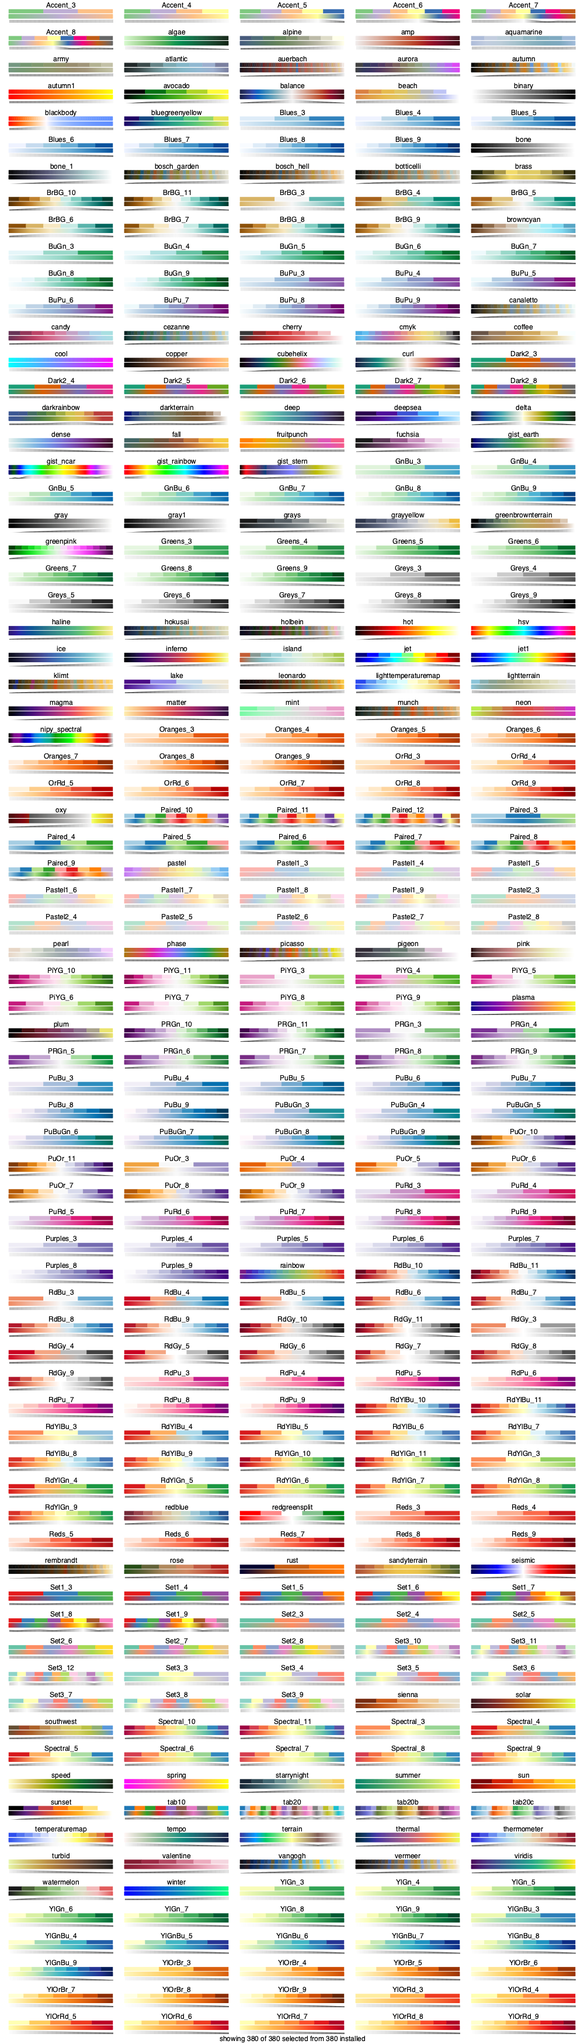
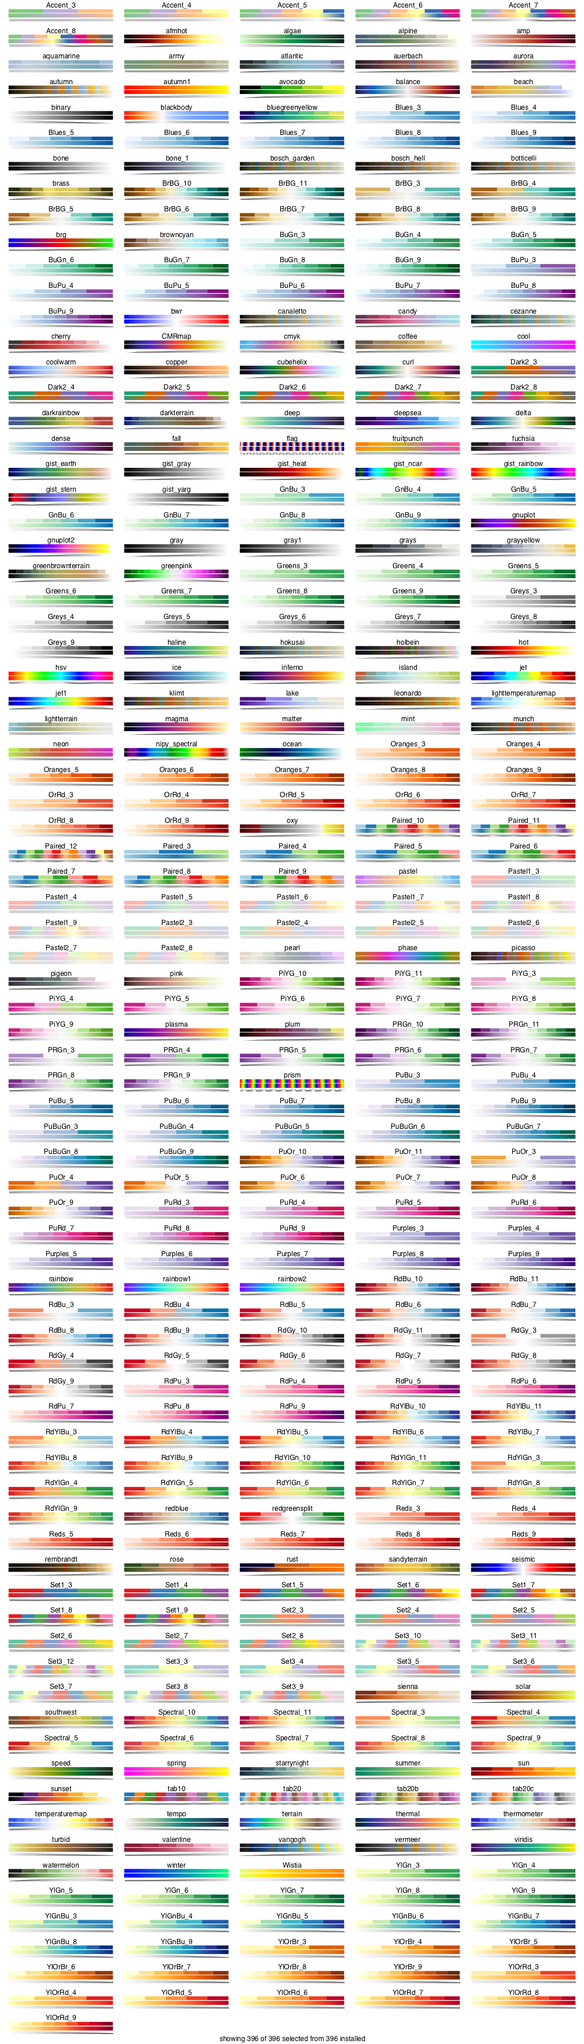
build based on 341dea6

diff --git a/dev/basics/index.html b/dev/basics/index.html
@@ -1,5 +1,5 @@
 <!DOCTYPE html>
-<html lang="en"><head><meta charset="UTF-8"/><meta name="viewport" content="width=device-width, initial-scale=1.0"/><title>Basic usage · ColorSchemes</title><link href="https://cdnjs.cloudflare.com/ajax/libs/normalize/4.2.0/normalize.min.css" rel="stylesheet" type="text/css"/><link href="https://fonts.googleapis.com/css?family=Lato|Roboto+Mono" rel="stylesheet" type="text/css"/><link href="https://cdnjs.cloudflare.com/ajax/libs/font-awesome/4.6.3/css/font-awesome.min.css" rel="stylesheet" type="text/css"/><link href="https://cdnjs.cloudflare.com/ajax/libs/highlight.js/9.12.0/styles/default.min.css" rel="stylesheet" type="text/css"/><script>documenterBaseURL=".."</script><script src="https://cdnjs.cloudflare.com/ajax/libs/require.js/2.2.0/require.min.js" data-main="../assets/documenter.js"></script><script src="../siteinfo.js"></script><script src="../../versions.js"></script><link href="../assets/documenter.css" rel="stylesheet" type="text/css"/></head><body><nav class="toc"><a href="../index.html"><img class="logo" src="../assets/logo.png" alt="ColorSchemes logo"/></a><h1>ColorSchemes</h1><select id="version-selector" onChange="window.location.href=this.value" style="visibility: hidden"></select><form class="search" id="search-form" action="../search/"><input id="search-query" name="q" type="text" placeholder="Search docs"/></form><ul><li><a class="toctext" href="../">Introduction</a></li><li class="current"><a class="toctext" href>Basic usage</a><ul class="internal"><li><a class="toctext" href="#ColorScheme-objects-1">ColorScheme objects</a></li><li><a class="toctext" href="#The-colorschemes-dictionary-1">The colorschemes dictionary</a></li><li><a class="toctext" href="#Chart-of-all-schemes-1">Chart of all schemes</a></li><li><a class="toctext" href="#Finding-colorschemes-1">Finding colorschemes</a></li><li><a class="toctext" href="#Make-your-own-1">Make your own</a></li><li><a class="toctext" href="#Continuous-color-sampling-1">Continuous color sampling</a></li><li><a class="toctext" href="#Matplotlib-compatibility-1">Matplotlib compatibility</a></li></ul></li><li><a class="toctext" href="../finding/">Finding colors</a></li><li><a class="toctext" href="../plotting/">Plotting</a></li><li><a class="toctext" href="../images/">Images</a></li><li><a class="toctext" href="../functionindex/">Index</a></li></ul></nav><article id="docs"><header><nav><ul><li><a href>Basic usage</a></li></ul><a class="edit-page" href="https://github.com/JuliaGraphics/ColorSchemes.jl/blob/master/docs/src/basics.md"><span class="fa"></span> Edit on GitHub</a></nav><hr/><div id="topbar"><span>Basic usage</span><a class="fa fa-bars" href="#"></a></div></header><h1><a class="nav-anchor" id="Basics-1" href="#Basics-1">Basics</a></h1><h2><a class="nav-anchor" id="ColorScheme-objects-1" href="#ColorScheme-objects-1">ColorScheme objects</a></h2><p>When you start using ColorSchemes.jl, it loads a set of pre-defined ColorSchemes, and stores them in a dictionary, exported and called <code>colorschemes</code>.</p><p>A ColorScheme is a Julia object which contains:</p><ul><li>an array of colors</li><li>a string defining a category</li><li>a string that can contain descriptive notes</li></ul><p>To access one of these built-in colorschemes, use its symbol:</p><pre><code class="language-none">julia&gt; ColorSchemes.leonardo</code></pre><p>If you&#39;re using Juno, the colors in the colorscheme should appear in the Plot window.</p><p><img src="../assets/figures/leo-colorscheme.png" alt="&quot;leo color scheme&quot;"/></p><p>Otherwise, you&#39;ll see the colors listed as RGB values:</p><pre><code class="language-none">32-element Array{RGB{Float64},1}:
+<html lang="en"><head><meta charset="UTF-8"/><meta name="viewport" content="width=device-width, initial-scale=1.0"/><title>Basic usage · ColorSchemes</title><link href="https://cdnjs.cloudflare.com/ajax/libs/normalize/4.2.0/normalize.min.css" rel="stylesheet" type="text/css"/><link href="https://fonts.googleapis.com/css?family=Lato|Roboto+Mono" rel="stylesheet" type="text/css"/><link href="https://cdnjs.cloudflare.com/ajax/libs/font-awesome/4.6.3/css/font-awesome.min.css" rel="stylesheet" type="text/css"/><link href="https://cdnjs.cloudflare.com/ajax/libs/highlight.js/9.12.0/styles/default.min.css" rel="stylesheet" type="text/css"/><script>documenterBaseURL=".."</script><script src="https://cdnjs.cloudflare.com/ajax/libs/require.js/2.2.0/require.min.js" data-main="../assets/documenter.js"></script><script src="../siteinfo.js"></script><script src="../../versions.js"></script><link href="../assets/documenter.css" rel="stylesheet" type="text/css"/></head><body><nav class="toc"><a href="../index.html"><img class="logo" src="../assets/logo.png" alt="ColorSchemes logo"/></a><h1>ColorSchemes</h1><select id="version-selector" onChange="window.location.href=this.value" style="visibility: hidden"></select><form class="search" id="search-form" action="../search/"><input id="search-query" name="q" type="text" placeholder="Search docs"/></form><ul><li><a class="toctext" href="../">Introduction</a></li><li class="current"><a class="toctext" href>Basic usage</a><ul class="internal"><li><a class="toctext" href="#ColorScheme-objects-1">ColorScheme objects</a></li><li><a class="toctext" href="#The-colorschemes-dictionary-1">The colorschemes dictionary</a></li><li><a class="toctext" href="#Chart-of-all-schemes-1">Chart of all schemes</a></li><li><a class="toctext" href="#Finding-colorschemes-1">Finding colorschemes</a></li><li><a class="toctext" href="#Make-your-own-ColorScheme-1">Make your own ColorScheme</a></li><li><a class="toctext" href="#Continuous-color-sampling-1">Continuous color sampling</a></li><li><a class="toctext" href="#Matplotlib-compatibility-1">Matplotlib compatibility</a></li></ul></li><li><a class="toctext" href="../finding/">Finding colors</a></li><li><a class="toctext" href="../plotting/">Plotting</a></li><li><a class="toctext" href="../images/">Images</a></li><li><a class="toctext" href="../functionindex/">Index</a></li></ul></nav><article id="docs"><header><nav><ul><li><a href>Basic usage</a></li></ul><a class="edit-page" href="https://github.com/JuliaGraphics/ColorSchemes.jl/blob/master/docs/src/basics.md"><span class="fa"></span> Edit on GitHub</a></nav><hr/><div id="topbar"><span>Basic usage</span><a class="fa fa-bars" href="#"></a></div></header><h1><a class="nav-anchor" id="Basics-1" href="#Basics-1">Basics</a></h1><h2><a class="nav-anchor" id="ColorScheme-objects-1" href="#ColorScheme-objects-1">ColorScheme objects</a></h2><p>When you start using ColorSchemes.jl, it loads a set of pre-defined ColorSchemes, and stores them in a dictionary, exported and called <code>colorschemes</code>.</p><p>A ColorScheme is a Julia object which contains:</p><ul><li>an array of colors</li><li>a string defining a category</li><li>a string that can contain descriptive notes</li></ul><p>To access one of these built-in colorschemes, use its symbol:</p><pre><code class="language-none">julia&gt; ColorSchemes.leonardo</code></pre><p>If you&#39;re using Juno, for example, the colors in the colorscheme should appear in the Plots window.</p><p><img src="../assets/figures/leo-colorscheme.png" alt="&quot;leo color scheme&quot;"/></p><p>Otherwise, you&#39;ll see the colors listed as RGB values:</p><pre><code class="language-none">32-element Array{RGB{Float64},1}:
  RGB{Float64}(0.0548203,0.016509,0.0193152)
  RGB{Float64}(0.0750816,0.0341102,0.0397083)
  RGB{Float64}(0.10885,0.0336675,0.0261204)
@@ -12,7 +12,7 @@
  RGB{Float64}(0.757552,0.633425,0.251451)
  RGB{Float64}(0.816472,0.697015,0.322421)
  RGB{Float64}(0.933027,0.665164,0.198652)
- RGB{Float64}(0.972441,0.790701,0.285136)</code></pre><p>You can access the colors as:</p><pre><code class="language-none">ColorSchemes.leonardo.colors</code></pre><p>By default, the names of the colorschemes aren&#39;t imported (there <em>are</em> rather a lot of them). But to avoid using the prefixes, you can import the ones that you want:</p><pre><code class="language-none">julia&gt; import ColorSchemes.leonardo
+ RGB{Float64}(0.972441,0.790701,0.285136)</code></pre><p>You can access the array of colors as:</p><pre><code class="language-none">ColorSchemes.leonardo.colors</code></pre><p>By default, the colorschemes aren&#39;t imported. But to avoid using the prefixes, you can import the ones that you want:</p><pre><code class="language-none">julia&gt; import ColorSchemes.leonardo
 julia&gt; leonardo
 32-element Array{RGB{Float64},1}:
  RGB{Float64}(0.0548203,0.016509,0.0193152)
@@ -36,9 +36,9 @@ img3 = get(colorschemes[:leonardo], 10.0*rand(10,10), (1.0, 9.0))
 
 # Also works with PerceptualColourMaps
 using PerceptualColourMaps # warning, installs PyPlot, PyCall, LaTeXStrings
-img4 = get(PerceptualColourMaps.cmap(&quot;R1&quot;), rand(10,10))</code></pre></div></div></section><h2><a class="nav-anchor" id="The-colorschemes-dictionary-1" href="#The-colorschemes-dictionary-1">The colorschemes dictionary</a></h2><p>The ColorSchemes module automatically provides a number of predefined schemes. All the colorschemes are stored in a dictionary, called <code>colorschemes</code>, which is exported.</p><h2><a class="nav-anchor" id="Chart-of-all-schemes-1" href="#Chart-of-all-schemes-1">Chart of all schemes</a></h2><p>The pre-defined schemes shown in the following illustration. Each scheme is drawn in three ways: first, showing each color; next, a continuous blend obtained using <code>get()</code> with values ranging from 0 to 1 (stepping through the range <code>0:0.001:1</code>); and finally a luminance graph shows how the luminance of the scheme varies as the colors change.</p><p><em>It&#39;s generally agreed (search the web for &quot;Rainbow colormaps considered harmful&quot;) that you should choose colormaps with smooth linear luminance gradients.</em></p><p><img src="../assets/figures/colorschemes.png" alt="&quot;all schemes&quot;"/></p><p>(You can generate this image using <code>ColorSchemes/docs/src/assets/figures/draw-swatches.jl</code>, after obtaining the Luxor package to draw and label things.)</p><section class="docstring"><div class="docstring-header"><a class="docstring-binding" id="ColorSchemes.colorschemes" href="#ColorSchemes.colorschemes"><code>ColorSchemes.colorschemes</code></a> — <span class="docstring-category">Constant</span>.</div><div><div><pre><code class="language-none">colorschemes</code></pre><p>A dictionary of pre-defined colorschemes.</p></div></div></section><h2><a class="nav-anchor" id="Finding-colorschemes-1" href="#Finding-colorschemes-1">Finding colorschemes</a></h2><p>Use the <code>findcolorscheme()</code> function to look through the pre-defined colorschemes. The string you provide can occur in the colorscheme&#39;s name, in the category, or in the notes.</p><pre><code class="language-none">julia&gt; findcolorscheme(&quot;magenta&quot;)
+img4 = get(PerceptualColourMaps.cmap(&quot;R1&quot;), rand(10,10))</code></pre></div></div></section><h2><a class="nav-anchor" id="The-colorschemes-dictionary-1" href="#The-colorschemes-dictionary-1">The colorschemes dictionary</a></h2><p>The ColorSchemes module automatically provides a number of predefined schemes. All the colorschemes are stored in a dictionary, called <code>colorschemes</code>, which is exported.</p><h2><a class="nav-anchor" id="Chart-of-all-schemes-1" href="#Chart-of-all-schemes-1">Chart of all schemes</a></h2><p>All the pre-defined schemes are shown in the following illustration. Each scheme is drawn in three ways: first, showing each defined color; next, a continuous blend obtained using <code>get()</code> with values ranging from 0 to 1 (stepping through the range <code>0:0.001:1</code>); and finally a luminance graph shows how the luminance of the scheme varies as the colors change.</p><p><em>It&#39;s generally agreed (search the web for &quot;Rainbow colormaps considered harmful&quot;) that you should choose colormaps with smooth linear luminance gradients.</em></p><p><img src="../assets/figures/colorschemes.png" alt="&quot;all schemes&quot;"/></p><p>(You can generate this image using <code>ColorSchemes/docs/src/assets/figures/draw-swatches.jl</code>, after obtaining the Luxor package to draw and label things.)</p><section class="docstring"><div class="docstring-header"><a class="docstring-binding" id="ColorSchemes.colorschemes" href="#ColorSchemes.colorschemes"><code>ColorSchemes.colorschemes</code></a> — <span class="docstring-category">Constant</span>.</div><div><div><pre><code class="language-none">colorschemes</code></pre><p>A dictionary of pre-defined colorschemes.</p></div></div></section><h2><a class="nav-anchor" id="Finding-colorschemes-1" href="#Finding-colorschemes-1">Finding colorschemes</a></h2><p>Use the <code>findcolorscheme()</code> function to search through the pre-defined colorschemes. The string you provide can occur in the colorscheme&#39;s name, in the category, or in the notes. It&#39;s interpreted as a case-insensitive regular expression.</p><pre><code class="language-none">julia&gt; findcolorscheme(&quot;magen&quot;)
 
-colorschemes containing &quot;magenta&quot;
+colorschemes containing &quot;magen&quot;
 
 spring               (notes) sampled color schemes, linearl...
 cool                 (notes) sampled color schemes, linearl...
@@ -66,16 +66,17 @@ delta                (category) cmocean
 curl                 (category) cmocean
 phase                (category) cmocean
 
-found 18 results for &quot;cmocean&quot;</code></pre><section class="docstring"><div class="docstring-header"><a class="docstring-binding" id="ColorSchemes.findcolorscheme" href="#ColorSchemes.findcolorscheme"><code>ColorSchemes.findcolorscheme</code></a> — <span class="docstring-category">Function</span>.</div><div><div><pre><code class="language-none">findcolorscheme(str)</code></pre><p>Find all color schemes matching <code>str</code>. It can be a regular expression.</p><p>To read the notes of built-in colorscheme <code>cscheme</code>:</p><pre><code class="language-none">colorschemes[:cscheme].notes</code></pre></div></div></section><p>If you prefer, you can always &#39;roll your own&#39; search.</p><pre><code class="language-none">[k for (k, v) in colorschemes if occursin(r&quot;colorbrew&quot;i, v.category)]
+found 18 results for &quot;cmocean&quot;</code></pre><section class="docstring"><div class="docstring-header"><a class="docstring-binding" id="ColorSchemes.findcolorscheme" href="#ColorSchemes.findcolorscheme"><code>ColorSchemes.findcolorscheme</code></a> — <span class="docstring-category">Function</span>.</div><div><div><pre><code class="language-none">findcolorscheme(str)</code></pre><p>Find all color schemes matching <code>str</code>. <code>str</code> is interpreted as a regular expression.</p><p>To read the notes of built-in colorscheme <code>cscheme</code>:</p><pre><code class="language-none">colorschemes[:cscheme].notes</code></pre></div></div></section><p>If you prefer, you can &#39;roll your own&#39; search.</p><pre><code class="language-none">[k for (k, v) in colorschemes if occursin(r&quot;colorbrew&quot;i, v.category)]
 265-element Array{Symbol,1}:
  :BuPu_6
  :Spectral_4
  :RdYlGn_5
  ⋮
  :BrBG_8
- :Oranges_4</code></pre><h2><a class="nav-anchor" id="Make-your-own-1" href="#Make-your-own-1">Make your own</a></h2><p>Of course you can easily make your own ColorScheme objects by building an array:</p><pre><code class="language-none">grays = ColorScheme([RGB{Float64}(i, i, i) for i in 0:0.1:1.0])</code></pre><p>Give it a category or some added notes if you want:</p><pre><code class="language-none">grays = ColorScheme([RGB{Float64}(i, i, i) for i in 0:0.1:1.0],
+ :Oranges_4</code></pre><h2><a class="nav-anchor" id="Make-your-own-ColorScheme-1" href="#Make-your-own-ColorScheme-1">Make your own ColorScheme</a></h2><p>You can easily make your own ColorScheme objects by building an array:</p><pre><code class="language-none">using Colors
+grays = ColorScheme([RGB{Float64}(i, i, i) for i in 0:0.1:1.0])</code></pre><p>Give it a category or some added notes if you want:</p><pre><code class="language-none">grays = ColorScheme([RGB{Float64}(i, i, i) for i in 0:0.1:1.0],
     &quot;my useful schemes&quot;, &quot;just some dull grey shades&quot;)</code></pre><p>although this won&#39;t end up in the <code>colorschemes</code> dictionary.</p><p>Another way is to use <code>loadcolorscheme()</code> function:</p><pre><code class="language-none">loadcolorscheme(:mygrays, [RGB{Float64}(i, i, i) for i in 0:0.1:1.0],
-     &quot;useful schemes&quot;, &quot;just some dull grey shades&quot;)</code></pre><p>and that will be added (temporarily).</p><pre><code class="language-none">julia-1.1&gt; findcolorscheme(&quot;dull&quot;)
+     &quot;useful schemes&quot;, &quot;just some dull grey shades&quot;)</code></pre><p>and that will be added (temporarily).</p><pre><code class="language-none">julia&gt; findcolorscheme(&quot;dull&quot;)
 
 colorschemes containing &quot;dull&quot;
 
@@ -128,14 +129,6 @@ for (k, v) in matplotlibcmaps
 end</code></pre><pre><code class="language-none">sequential  : 18
 qualitative : 12
 sequential2 : 16
-	gist_yarg    not currently in stock
-	gist_gray    not currently in stock
-	gist_heat    not currently in stock
 perceptuallyuniformsequential: 4
 diverging   : 12
-	coolwarm     not currently in stock
-	bwr          not currently in stock
-miscellaneous: 17
-	flag         not currently in stock
-	prism        not currently in stock
-	brg          not currently in stock</code></pre></div><footer><hr/><a class="previous" href="../"><span class="direction">Previous</span><span class="title">Introduction</span></a><a class="next" href="../finding/"><span class="direction">Next</span><span class="title">Finding colors</span></a></footer></article></body></html>
+miscellaneous: 17</code></pre></div><footer><hr/><a class="previous" href="../"><span class="direction">Previous</span><span class="title">Introduction</span></a><a class="next" href="../finding/"><span class="direction">Next</span><span class="title">Finding colors</span></a></footer></article></body></html>

diff --git a/dev/search_index.js b/dev/search_index.js
@@ -53,7 +53,7 @@ var documenterSearchIndex = {"docs": [
     "page": "Basic usage",
     "title": "ColorScheme objects",
     "category": "section",
-    "text": "When you start using ColorSchemes.jl, it loads a set of pre-defined ColorSchemes, and stores them in a dictionary, exported and called colorschemes.A ColorScheme is a Julia object which contains:an array of colors\na string defining a category\na string that can contain descriptive notesTo access one of these built-in colorschemes, use its symbol:julia> ColorSchemes.leonardoIf you\'re using Juno, the colors in the colorscheme should appear in the Plot window.(Image: \"leo color scheme\")Otherwise, you\'ll see the colors listed as RGB values:32-element Array{RGB{Float64},1}:\n RGB{Float64}(0.0548203,0.016509,0.0193152)\n RGB{Float64}(0.0750816,0.0341102,0.0397083)\n RGB{Float64}(0.10885,0.0336675,0.0261204)\n RGB{Float64}(0.100251,0.0534243,0.0497594)\n ...\n RGB{Float64}(0.620187,0.522792,0.216707)\n RGB{Float64}(0.692905,0.56631,0.185515)\n RGB{Float64}(0.681411,0.58149,0.270391)\n RGB{Float64}(0.85004,0.540122,0.136212)\n RGB{Float64}(0.757552,0.633425,0.251451)\n RGB{Float64}(0.816472,0.697015,0.322421)\n RGB{Float64}(0.933027,0.665164,0.198652)\n RGB{Float64}(0.972441,0.790701,0.285136)You can access the colors as:ColorSchemes.leonardo.colorsBy default, the names of the colorschemes aren\'t imported (there are rather a lot of them). But to avoid using the prefixes, you can import the ones that you want:julia> import ColorSchemes.leonardo\njulia> leonardo\n32-element Array{RGB{Float64},1}:\n RGB{Float64}(0.0548203,0.016509,0.0193152)\n RGB{Float64}(0.0750816,0.0341102,0.0397083)\n RGB{Float64}(0.10885,0.0336675,0.0261204)\n RGB{Float64}(0.100251,0.0534243,0.0497594)\n ...\n RGB{Float64}(0.757552,0.633425,0.251451)\n RGB{Float64}(0.816472,0.697015,0.322421)\n RGB{Float64}(0.933027,0.665164,0.198652)\n RGB{Float64}(0.972441,0.790701,0.285136)You can reference a single value of a scheme once it\'s loaded:leonardo[3]\n\n-> RGB{Float64}(0.10884977211887092,0.033667530751245296,0.026120424375656533)Or you can \'sample\' the scheme at any point between 0 and 1 using get():get(leonardo, 0.5)\n\n-> RGB{Float64}(0.42637271063618504,0.28028983973265065,0.11258024276603132)get"
+    "text": "When you start using ColorSchemes.jl, it loads a set of pre-defined ColorSchemes, and stores them in a dictionary, exported and called colorschemes.A ColorScheme is a Julia object which contains:an array of colors\na string defining a category\na string that can contain descriptive notesTo access one of these built-in colorschemes, use its symbol:julia> ColorSchemes.leonardoIf you\'re using Juno, for example, the colors in the colorscheme should appear in the Plots window.(Image: \"leo color scheme\")Otherwise, you\'ll see the colors listed as RGB values:32-element Array{RGB{Float64},1}:\n RGB{Float64}(0.0548203,0.016509,0.0193152)\n RGB{Float64}(0.0750816,0.0341102,0.0397083)\n RGB{Float64}(0.10885,0.0336675,0.0261204)\n RGB{Float64}(0.100251,0.0534243,0.0497594)\n ...\n RGB{Float64}(0.620187,0.522792,0.216707)\n RGB{Float64}(0.692905,0.56631,0.185515)\n RGB{Float64}(0.681411,0.58149,0.270391)\n RGB{Float64}(0.85004,0.540122,0.136212)\n RGB{Float64}(0.757552,0.633425,0.251451)\n RGB{Float64}(0.816472,0.697015,0.322421)\n RGB{Float64}(0.933027,0.665164,0.198652)\n RGB{Float64}(0.972441,0.790701,0.285136)You can access the array of colors as:ColorSchemes.leonardo.colorsBy default, the colorschemes aren\'t imported. But to avoid using the prefixes, you can import the ones that you want:julia> import ColorSchemes.leonardo\njulia> leonardo\n32-element Array{RGB{Float64},1}:\n RGB{Float64}(0.0548203,0.016509,0.0193152)\n RGB{Float64}(0.0750816,0.0341102,0.0397083)\n RGB{Float64}(0.10885,0.0336675,0.0261204)\n RGB{Float64}(0.100251,0.0534243,0.0497594)\n ...\n RGB{Float64}(0.757552,0.633425,0.251451)\n RGB{Float64}(0.816472,0.697015,0.322421)\n RGB{Float64}(0.933027,0.665164,0.198652)\n RGB{Float64}(0.972441,0.790701,0.285136)You can reference a single value of a scheme once it\'s loaded:leonardo[3]\n\n-> RGB{Float64}(0.10884977211887092,0.033667530751245296,0.026120424375656533)Or you can \'sample\' the scheme at any point between 0 and 1 using get():get(leonardo, 0.5)\n\n-> RGB{Float64}(0.42637271063618504,0.28028983973265065,0.11258024276603132)get"
 },
 
 {
@@ -77,7 +77,7 @@ var documenterSearchIndex = {"docs": [
     "page": "Basic usage",
     "title": "Chart of all schemes",
     "category": "section",
-    "text": "The pre-defined schemes shown in the following illustration. Each scheme is drawn in three ways: first, showing each color; next, a continuous blend obtained using get() with values ranging from 0 to 1 (stepping through the range 0:0.001:1); and finally a luminance graph shows how the luminance of the scheme varies as the colors change.It\'s generally agreed (search the web for \"Rainbow colormaps considered harmful\") that you should choose colormaps with smooth linear luminance gradients.(Image: \"all schemes\")(You can generate this image using ColorSchemes/docs/src/assets/figures/draw-swatches.jl, after obtaining the Luxor package to draw and label things.)colorschemes"
+    "text": "All the pre-defined schemes are shown in the following illustration. Each scheme is drawn in three ways: first, showing each defined color; next, a continuous blend obtained using get() with values ranging from 0 to 1 (stepping through the range 0:0.001:1); and finally a luminance graph shows how the luminance of the scheme varies as the colors change.It\'s generally agreed (search the web for \"Rainbow colormaps considered harmful\") that you should choose colormaps with smooth linear luminance gradients.(Image: \"all schemes\")(You can generate this image using ColorSchemes/docs/src/assets/figures/draw-swatches.jl, after obtaining the Luxor package to draw and label things.)colorschemes"
 },
 
 {
@@ -85,7 +85,7 @@ var documenterSearchIndex = {"docs": [
     "page": "Basic usage",
     "title": "ColorSchemes.findcolorscheme",
     "category": "function",
-    "text": "findcolorscheme(str)\n\nFind all color schemes matching str. It can be a regular expression.\n\nTo read the notes of built-in colorscheme cscheme:\n\ncolorschemes[:cscheme].notes\n\n\n\n\n\n"
+    "text": "findcolorscheme(str)\n\nFind all color schemes matching str. str is interpreted as a regular expression.\n\nTo read the notes of built-in colorscheme cscheme:\n\ncolorschemes[:cscheme].notes\n\n\n\n\n\n"
 },
 
 {
@@ -93,15 +93,15 @@ var documenterSearchIndex = {"docs": [
     "page": "Basic usage",
     "title": "Finding colorschemes",
     "category": "section",
-    "text": "Use the findcolorscheme() function to look through the pre-defined colorschemes. The string you provide can occur in the colorscheme\'s name, in the category, or in the notes.julia> findcolorscheme(\"magenta\")\n\ncolorschemes containing \"magenta\"\n\nspring               (notes) sampled color schemes, linearl...\ncool                 (notes) sampled color schemes, linearl...\nhsv                  (notes) sampled color schemes, red-yel...\n\nfound 3 results for \"magenta\"julia> findcolorscheme(\"cmocean\")\ncolorschemes containing \"cmocean\"\n\noxy                  (category) cmocean\nmatter               (category) cmocean\ndense                (category) cmocean\nbalance              (category) cmocean\nthermal              (category) cmocean\ntempo                (category) cmocean\ngray                 (category) cmocean\nspeed                (category) cmocean\nturbid               (category) cmocean\nsolar                (category) cmocean\nice                  (category) cmocean\nhaline               (category) cmocean\nalgae                (category) cmocean\namp                  (category) cmocean\ndeep                 (category) cmocean\ndelta                (category) cmocean\ncurl                 (category) cmocean\nphase                (category) cmocean\n\nfound 18 results for \"cmocean\"findcolorschemeIf you prefer, you can always \'roll your own\' search.[k for (k, v) in colorschemes if occursin(r\"colorbrew\"i, v.category)]\n265-element Array{Symbol,1}:\n :BuPu_6\n :Spectral_4\n :RdYlGn_5\n ⋮\n :BrBG_8\n :Oranges_4"
+    "text": "Use the findcolorscheme() function to search through the pre-defined colorschemes. The string you provide can occur in the colorscheme\'s name, in the category, or in the notes. It\'s interpreted as a case-insensitive regular expression.julia> findcolorscheme(\"magen\")\n\ncolorschemes containing \"magen\"\n\nspring               (notes) sampled color schemes, linearl...\ncool                 (notes) sampled color schemes, linearl...\nhsv                  (notes) sampled color schemes, red-yel...\n\nfound 3 results for \"magenta\"julia> findcolorscheme(\"cmocean\")\ncolorschemes containing \"cmocean\"\n\noxy                  (category) cmocean\nmatter               (category) cmocean\ndense                (category) cmocean\nbalance              (category) cmocean\nthermal              (category) cmocean\ntempo                (category) cmocean\ngray                 (category) cmocean\nspeed                (category) cmocean\nturbid               (category) cmocean\nsolar                (category) cmocean\nice                  (category) cmocean\nhaline               (category) cmocean\nalgae                (category) cmocean\namp                  (category) cmocean\ndeep                 (category) cmocean\ndelta                (category) cmocean\ncurl                 (category) cmocean\nphase                (category) cmocean\n\nfound 18 results for \"cmocean\"findcolorschemeIf you prefer, you can \'roll your own\' search.[k for (k, v) in colorschemes if occursin(r\"colorbrew\"i, v.category)]\n265-element Array{Symbol,1}:\n :BuPu_6\n :Spectral_4\n :RdYlGn_5\n ⋮\n :BrBG_8\n :Oranges_4"
 },
 
 {
-    "location": "basics/#Make-your-own-1",
+    "location": "basics/#Make-your-own-ColorScheme-1",
     "page": "Basic usage",
-    "title": "Make your own",
+    "title": "Make your own ColorScheme",
     "category": "section",
-    "text": "Of course you can easily make your own ColorScheme objects by building an array:grays = ColorScheme([RGB{Float64}(i, i, i) for i in 0:0.1:1.0])Give it a category or some added notes if you want:grays = ColorScheme([RGB{Float64}(i, i, i) for i in 0:0.1:1.0],\n    \"my useful schemes\", \"just some dull grey shades\")although this won\'t end up in the colorschemes dictionary.Another way is to use loadcolorscheme() function:loadcolorscheme(:mygrays, [RGB{Float64}(i, i, i) for i in 0:0.1:1.0],\n     \"useful schemes\", \"just some dull grey shades\")and that will be added (temporarily).julia-1.1> findcolorscheme(\"dull\")\n\ncolorschemes containing \"dull\"\n\nmygrays              (notes) just some dull grey shades...\n\n\nfound 1 result for \"dull\""
+    "text": "You can easily make your own ColorScheme objects by building an array:using Colors\ngrays = ColorScheme([RGB{Float64}(i, i, i) for i in 0:0.1:1.0])Give it a category or some added notes if you want:grays = ColorScheme([RGB{Float64}(i, i, i) for i in 0:0.1:1.0],\n    \"my useful schemes\", \"just some dull grey shades\")although this won\'t end up in the colorschemes dictionary.Another way is to use loadcolorscheme() function:loadcolorscheme(:mygrays, [RGB{Float64}(i, i, i) for i in 0:0.1:1.0],\n     \"useful schemes\", \"just some dull grey shades\")and that will be added (temporarily).julia> findcolorscheme(\"dull\")\n\ncolorschemes containing \"dull\"\n\nmygrays              (notes) just some dull grey shades...\n\n\nfound 1 result for \"dull\""
 },
 
 {
@@ -189,7 +189,7 @@ var documenterSearchIndex = {"docs": [
     "page": "Plotting",
     "title": "Makie",
     "category": "section",
-    "text": "If you use Makie.jl you can pass the colors in a colorscheme directly to the colormap keyword.using Makie, ColorSchemes\nN = 20\nx = LinRange(-0.3, 1, N)\ny = LinRange(-1, 0.5, N)\nz = x .* y\'\nimage(x, y, z, colormap = ColorSchemes.picasso.colors)(Image: \"makie\")You can display all the colorschemes using Makie by browsing through the dictionary:using Makie, ColorSchemes\n\nh = 0.0\noffset = 0.1\nscene = Scene()\ncam2d!(scene)\nplot = map(collect(keys(colorschemes))) do cmap\n     global h\n     c = to_colormap(colorschemes[cmap].colors)\n     cbar = image!(\n         scene,\n         range(0, stop = 10, length = length(c)),\n         range(0, stop = 1, length = length(c)),\n         reshape(c, (length(c), 1)),\n         show_axis = false\n     )[end]\n     text!(\n         scene,\n         string(cmap, \":\"),\n         position = Point2f0(-0.1, 0.5 + h),\n         align = (:right, :center),\n         show_axis = false,\n         textsize = 0.4\n     )\n     translate!(cbar, 0, h, 0)\n     h -= (1 + offset)\nend\nscene(Image: \"makie all colorschemes\")"
+    "text": "If you use Makie.jl you can pass the colors in a colorscheme directly to the colormap keyword.using Makie, ColorSchemes\nN = 20\nx = LinRange(-0.3, 1, N)\ny = LinRange(-1, 0.5, N)\nz = x .* y\'\nimage(x, y, z, colormap = ColorSchemes.picasso.colors)(Image: \"makie\")You can display all the colorschemes using Makie by browsing through the colorschemes dictionary:using Makie, ColorSchemes\n\nh = 0.0\noffset = 0.1\nscene = Scene()\ncam2d!(scene)\nplot = map(collect(keys(colorschemes))) do cmap\n     global h\n     c = to_colormap(colorschemes[cmap].colors)\n     cbar = image!(\n         scene,\n         range(0, stop = 10, length = length(c)),\n         range(0, stop = 1, length = length(c)),\n         reshape(c, (length(c), 1)),\n         show_axis = false\n     )[end]\n     text!(\n         scene,\n         string(cmap, \":\"),\n         position = Point2f0(-0.1, 0.5 + h),\n         align = (:right, :center),\n         show_axis = false,\n         textsize = 0.4\n     )\n     translate!(cbar, 0, h, 0)\n     h -= (1 + offset)\nend\nscene(Image: \"makie all colorschemes\")"
 },
 
 {

diff --git a/dev/plotting/index.html b/dev/plotting/index.html
@@ -20,7 +20,7 @@ N = 20
 x = LinRange(-0.3, 1, N)
 y = LinRange(-1, 0.5, N)
 z = x .* y&#39;
-image(x, y, z, colormap = ColorSchemes.picasso.colors)</code></pre><p><img src="../assets/figures/makie.png" alt="&quot;makie&quot;"/></p><p>You can display all the colorschemes using Makie by browsing through the dictionary:</p><pre><code class="language-none">using Makie, ColorSchemes
+image(x, y, z, colormap = ColorSchemes.picasso.colors)</code></pre><p><img src="../assets/figures/makie.png" alt="&quot;makie&quot;"/></p><p>You can display all the colorschemes using Makie by browsing through the <code>colorschemes</code> dictionary:</p><pre><code class="language-none">using Makie, ColorSchemes
 
 h = 0.0
 offset = 0.1
